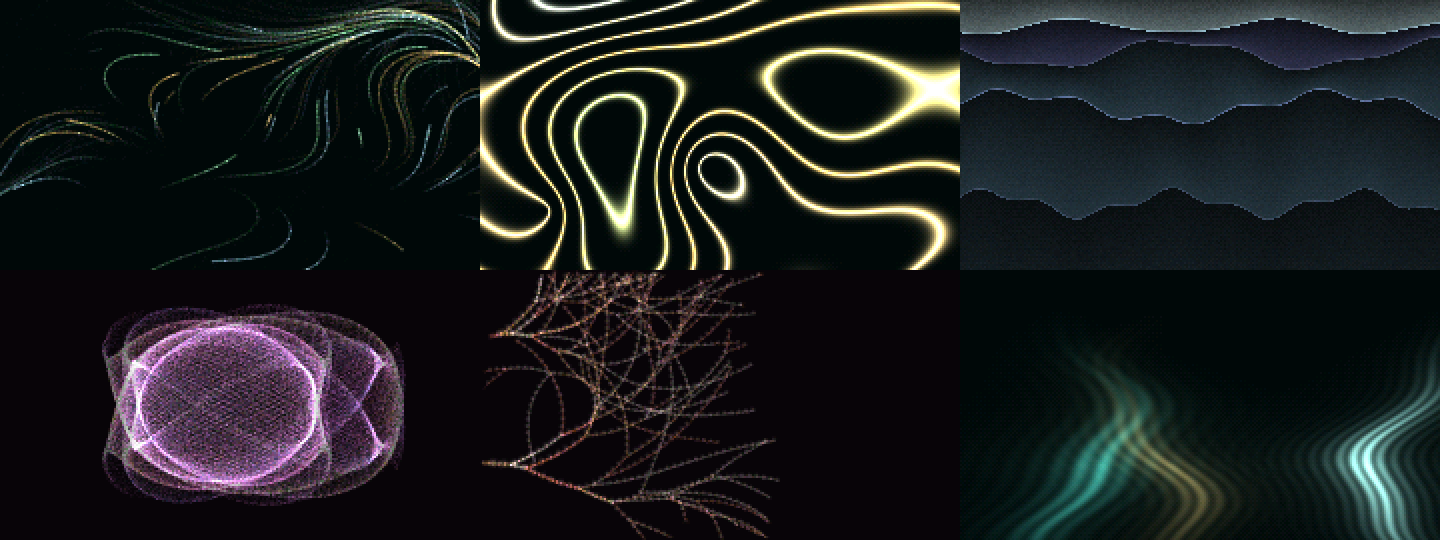
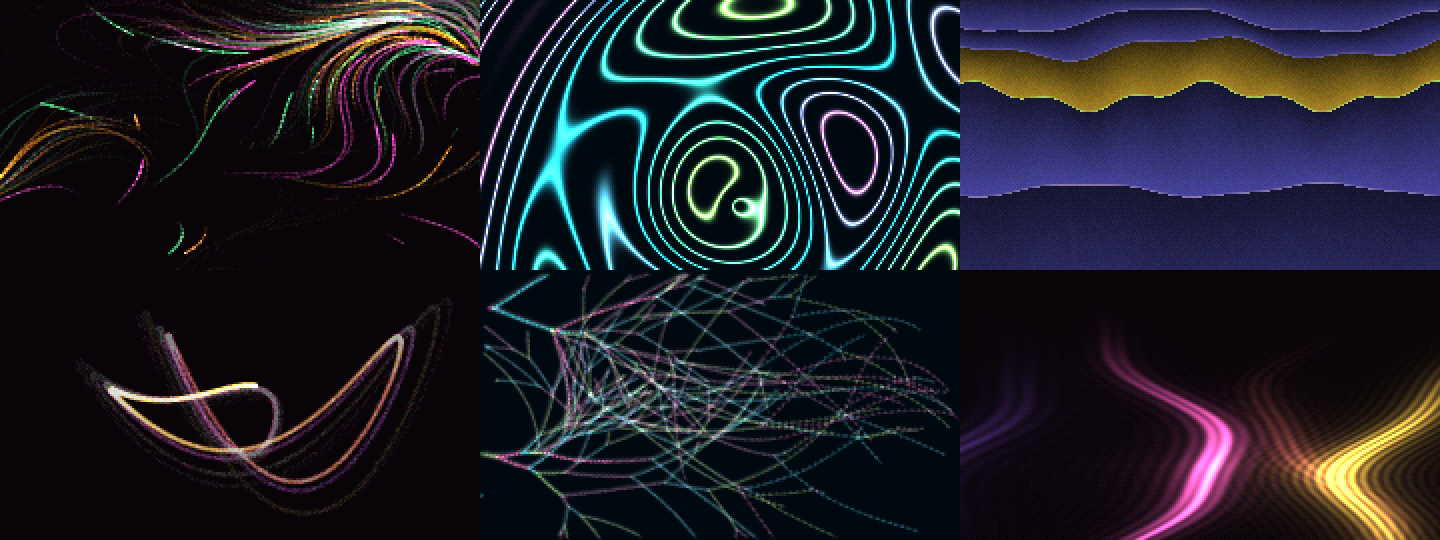
Slow the interference field, keep the pendulum drawing, repaint the palettes
The interference field moved fast enough to read as agitated rather than
alive; its source drift and wave phases now run at about a third of that.

The pendulum filled its frame within a second or two and then had nothing
left to show, because the pen was closing its whole loop several times a
second. It now advances about a tenth of a unit of pen time a second, so the
figure is always still being drawn, its envelope settles to a floor instead
of collapsing to a point, and a different figure begins every twenty seconds
or so. The stroke carries a colour gradient along its length and a second
pass across it for body.

The palettes were built from muted neighbours on the colour wheel and read as
dull and adult. These six are poster colours, far enough apart that a blend
between any two stays a colour instead of turning to grey.

diff --git a/src/Light.h b/src/Light.h
@@ -57,7 +57,7 @@ class Painting {
   std::array<Layer, 14> layers{};
   unsigned layerCount = 0;
   float settleAt = 0;
-  float penT = 0, penDecay = 0, penAmplitude = 1;
+  float penT = 0, penDecay = 0, penEnvelope = 1, figureAt = 0;
   std::array<float, 4> penFreq{}, penPhase{}, penSize{};
   std::array<Node, 168> nodes{};
   unsigned nodeCount = 0, liveNodes = 0;
@@ -196,9 +196,9 @@ class Painting {
     d.tint = index % 3;
   }
   void renderCurrent(float dt) {
-    settle(238);
+    settle(241);
     float speed = (26 + evolving[3] * 46) * (0.72f + breath * 0.7f);
-    unsigned active = 40 + unsigned(evolving[4] * float(drops.size() - 40));
+    unsigned active = 60 + unsigned(evolving[4] * float(drops.size() - 60));
     for (unsigned i = 0; i < active; ++i) {
       Drop& d = drops[i];
       d.life -= dt / d.span;
@@ -211,7 +211,7 @@ class Painting {
       // Fade in and out at the ends of a life so no stroke starts or stops
       // abruptly; the field should look like it has no edges in time.
       float ends = std::min(1.0f, std::min((1 - d.life) * 7.0f, d.life * 3.2f));
-      float a = ends * (0.34f + breath * 0.52f);
+      float a = ends * (0.62f + breath * 0.70f);
       stroke(d.px, d.py, d.x, d.y, ink[d.tint], a);
       if (d.life > 0.82f) splat(d.x, d.y, glow, a * 0.7f);
     }
@@ -219,10 +219,10 @@ class Painting {
 
   void renderInterference() {
     float t = phase;
-    float ax = 120 + fcos(t * 0.037f) * (34 + evolving[0] * 62);
-    float ay = 67 + fsin(t * 0.029f) * (18 + evolving[1] * 34);
-    float bx = 120 - fcos(t * 0.023f + 0.31f) * (28 + evolving[2] * 70);
-    float by = 67 - fsin(t * 0.041f + 0.17f) * (16 + evolving[3] * 38);
+    float ax = 120 + fcos(t * 0.015f) * (34 + evolving[0] * 62);
+    float ay = 67 + fsin(t * 0.012f) * (18 + evolving[1] * 34);
+    float bx = 120 - fcos(t * 0.009f + 0.31f) * (28 + evolving[2] * 70);
+    float by = 67 - fsin(t * 0.017f + 0.17f) * (16 + evolving[3] * 38);
     float ka = 0.0055f + evolving[4] * 0.0075f;
     float kb = 0.0042f + evolving[5] * 0.0085f;
     float tilt = evolving[6];
@@ -239,9 +239,9 @@ class Painting {
         float fx = float(x) + 0.5f;
         float dax = fx - ax, dbx = fx - bx;
         float da = std::sqrt(dax * dax + day * day), db = std::sqrt(dbx * dbx + dby * dby);
-        float v = fsin(da * ka - t * 0.21f) * 0.4f
-                + fsin(db * kb + t * 0.16f) * 0.36f
-                + fsin(fx * px + fy * py + t * 0.09f) * 0.24f;
+        float v = fsin(da * ka - t * 0.062f) * 0.4f
+                + fsin(db * kb + t * 0.048f) * 0.36f
+                + fsin(fx * px + fy * py + t * 0.028f) * 0.24f;
         float u = v * 0.5f + 0.5f;
         // Contour lines: the triangle wave crosses zero at each band edge and
         // the cube turns the crossing into a thin, soft line.
@@ -309,8 +309,8 @@ class Painting {
           float local = (float(y) - previous) / thickness;
           // Each band is darkest where it was buried and lightest where it
           // meets the next; the grain keeps the fill from looking printed.
-          float shade = 0.14f + 0.34f * local + 0.07f * grain(int(x), y);
-          shade *= 0.45f + 0.55f * l.tone;
+          float shade = 0.22f + 0.50f * local + 0.07f * grain(int(x), y);
+          shade *= 0.60f + 0.40f * l.tone;
           float d = dither(int(x), y);
           int r = int(body.r * shade * (31.0f / 255.0f) + d);
           int g = int(body.g * shade * (63.0f / 255.0f) + d);
@@ -349,45 +349,64 @@ class Painting {
     float sum01 = penSize[0] + penSize[1], sum23 = penSize[2] + penSize[3];
     penSize[0] /= sum01; penSize[1] /= sum01; penSize[2] /= sum23; penSize[3] /= sum23;
     penT = 0;
-    penAmplitude = 1;
-    penDecay = range(0.006f, 0.017f);
+    penEnvelope = 1;
+    // Per unit of pen time, not per second: the pen advances about a tenth of
+    // a unit a second, so this is a figure that has visibly drawn itself
+    // tighter by the time it is replaced.
+    penDecay = range(0.12f, 0.34f);
+    figureAt = range(17.0f, 27.0f);
   }
   void renderHarmonograph(float dt) {
-    settle(253);
-    if (penAmplitude < 0.06f) {
-      // The figure has come to rest. Hold it, let the decay take it down,
-      // then start a different one.
-      growthHold += dt;
-      if (growthHold > 4.5f) { growthHold = 0; newFigure(); }
-      splat(120, 67, glow, 0.05f + breath * 0.12f);
-      return;
-    }
-    float span = dt * (2.2f + parameters[1] * 1.8f);
-    unsigned steps = 70 + unsigned(evolving[0] * 90);
+    // The pen is deliberately slow. Run it at the speed the figure is
+    // traversed and it closes its whole loop several times a second, which
+    // fills the frame in a moment and then has nothing left to show. At this
+    // speed it stays a line that is still drawing itself, and the decay
+    // clears the oldest part of the stroke as the newest arrives.
+    settle(249);
+    figureAt -= dt;
+    if (figureAt <= 0) newFigure();
+    float span = dt * (0.10f + parameters[1] * 0.07f) * (1.0f + breath * 0.3f);
+    unsigned steps = 18 + unsigned(evolving[0] * 22);
     float step = span / float(steps);
     float rx = 74 + evolving[1] * 38, ry = 42 + evolving[2] * 20;
     float decayPerStep = std::exp(-penDecay * step);
-    float lx = 0, ly = 0, amp = penAmplitude;
+    float lx = 0, ly = 0, env = penEnvelope;
     for (unsigned i = 0; i <= steps; ++i) {
       float t = penT + step * float(i);
-      if (i) amp *= decayPerStep;
+      if (i) env *= decayPerStep;
+      // The envelope bottoms out rather than collapsing to a point, so a long
+      // figure ends up tighter than it started but still worth watching.
+      float amp = 0.34f + 0.66f * env;
       float x = 120 + rx * amp * (penSize[0] * fsin(penFreq[0] * t + penPhase[0])
                                 + penSize[1] * fsin(penFreq[1] * t + penPhase[1]));
       float y = 67 + ry * amp * (penSize[2] * fsin(penFreq[2] * t + penPhase[2])
                                + penSize[3] * fsin(penFreq[3] * t + penPhase[3]));
       if (i == 0) { lx = x; ly = y; continue; }
-      float hue = t * 0.035f;
+      // Colour travels along the stroke, so the trail reads as a gradient
+      // from the head back into what has already been drawn.
+      float hue = t * 0.85f;
       float band = hue - std::floor(hue);
       unsigned a = unsigned(band * 3.0f) % 3, b = (a + 1) % 3;
       float blend = band * 3.0f - float(unsigned(band * 3.0f));
       Color c = {ink[a].r + (ink[b].r - ink[a].r) * blend,
                  ink[a].g + (ink[b].g - ink[a].g) * blend,
                  ink[a].b + (ink[b].b - ink[a].b) * blend};
-      stroke(lx, ly, x, y, c, (0.10f + breath * 0.20f) * amp);
+      float weight = 0.46f + breath * 0.44f;
+      stroke(lx, ly, x, y, c, weight);
+      // A second pass across the stroke gives the ribbon some body; a single
+      // hairline at this size disappears into the ground.
+      float ox = y - ly, oy = lx - x;
+      float length = std::sqrt(ox * ox + oy * oy);
+      if (length > 0.001f) {
+        ox = ox / length * 0.8f; oy = oy / length * 0.8f;
+        stroke(lx + ox, ly + oy, x + ox, y + oy, c, weight * 0.45f);
+        stroke(lx - ox, ly - oy, x - ox, y - oy, c, weight * 0.45f);
+      }
       lx = x; ly = y;
     }
+    splat(lx, ly, glow, 0.5f + breath * 0.5f);
     penT += span;
-    penAmplitude *= std::exp(-penDecay * span);
+    penEnvelope = env;
   }
 
   void seedGrowth() {
@@ -500,16 +519,16 @@ class Painting {
 
   void renderVeil() {
     float t = phase;
-    unsigned curtains = 3;
-    float centre[3], weightScale[3], hueMix[3];
+    constexpr unsigned curtains = 4;
+    float centre[curtains], weightScale[curtains], hueMix[curtains];
     for (unsigned k = 0; k < curtains; ++k) {
       float fk = float(k);
-      centre[k] = (fk + 0.5f) * (float(width) / float(curtains)) + (evolving[k] - 0.5f) * 84;
-      weightScale[k] = 7 + evolving[k + 3] * 15;
-      hueMix[k] = fk / 2.0f;
+      centre[k] = (fk + 0.5f) * (float(width) / float(curtains)) + (evolving[k] - 0.5f) * 76;
+      weightScale[k] = 9 + evolving[(k + 3) % 8] * 17;
+      hueMix[k] = fk / float(curtains - 1);
     }
     float shimmerRate = 0.05f + parameters[2] * 0.09f;
-    float lift = 1.5f + breath * 1.9f;
+    float lift = 3.2f + breath * 2.4f;
     for (unsigned y = 0; y < height; ++y) {
       float fy = float(y);
       uint16_t ground = rowGround[y];
@@ -519,7 +538,7 @@ class Painting {
       float foot = 1 - std::abs(fy / float(height) - 0.72f) * 1.55f;
       foot = std::max(0.0f, foot);
       float vertical = foot * foot * (0.35f + 0.65f * (fy / float(height)));
-      float cx[3], amp[3];
+      float cx[curtains], amp[curtains];
       for (unsigned k = 0; k < curtains; ++k) {
         cx[k] = centre[k] + fsin(fy * 0.0075f + t * (0.021f + 0.008f * float(k)) + float(k) * 0.37f) * (18 + evolving[6] * 34)
                           + fsin(fy * 0.021f - t * 0.033f) * 5.0f;
@@ -569,16 +588,17 @@ class Painting {
     breath = 0;
     for (auto& p : parameters) p = unit();
     pace = 0.75f + parameters[7] * 0.6f;
-    // Luminous inks on a near-black ground, with a fourth near-white for
-    // highlights. Saturation is kept short of the display's limits so the
-    // additive passes have somewhere to go.
+    // Three clear, well separated hues and a white for highlights. The first
+    // set was built from muted neighbours on the wheel and read as dull on
+    // the panel. These are poster colours, far enough apart that a blend
+    // between any two of them stays a colour instead of turning to grey.
     static const Color palettes[6][4] = {
-      {{ 72, 196, 180}, {232, 198, 118}, {150, 214, 206}, {228, 246, 240}},  // spring water
-      {{124, 122, 232}, {234, 128, 172}, {248, 190, 130}, {238, 232, 248}},  // dusk
-      {{132, 200, 142}, {224, 178,  98}, {146, 190, 214}, {236, 244, 224}},  // moss
-      {{238, 118,  92}, {248, 178, 108}, {244, 224, 198}, {252, 238, 222}},  // ember
-      {{140, 200, 236}, {148, 158, 240}, {206, 238, 244}, {236, 248, 252}},  // glacier
-      {{228, 120, 198}, {158, 122, 220}, {246, 198, 168}, {248, 236, 244}},  // orchid
+      {{255,  78,  66}, { 64, 132, 255}, {255, 214,  56}, {255, 255, 250}},  // poster
+      {{255,  72, 160}, { 40, 224, 238}, {176, 245,  84}, {250, 255, 255}},  // playground
+      {{255, 138,  30}, {236,  66, 190}, { 68, 220, 124}, {255, 252, 240}},  // fruit
+      {{  0, 226, 206}, {116, 112, 255}, {255, 202,  58}, {240, 255, 255}},  // sea
+      {{255, 124, 190}, { 92, 192, 255}, {124, 246, 190}, {255, 250, 255}},  // candy
+      {{154,  92, 255}, {255,  76, 122}, {255, 206,  72}, {255, 248, 252}},  // berry
     };
     for (unsigned i = 0; i < 3; ++i) ink[i] = palettes[palette][i];
     glow = palettes[palette][3];
@@ -587,7 +607,7 @@ class Painting {
     // survive five bits of red: it arrived on the display as two or three
     // horizontal bands, which is worse than no gradient at all. Depth is the
     // drawing's job here, not the ground's.
-    Color base = {ink[0].r * 0.016f + 2, ink[0].g * 0.016f + 3, ink[0].b * 0.02f + 6};
+    Color base = {ink[1].r * 0.012f + 3, ink[1].g * 0.012f + 4, ink[1].b * 0.016f + 9};
     uint16_t ground = uint16_t((std::min(int(base.r * (31.0f / 255.0f) + 0.5f), 31) << 11)
                              | (std::min(int(base.g * (63.0f / 255.0f) + 0.5f), 63) << 5)
                              | std::min(int(base.b * (31.0f / 255.0f) + 0.5f), 31));

diff --git a/CHANGELOG.md b/CHANGELOG.md
@@ -5,6 +5,9 @@
 - Replaced the six visual families with a new set drawn as light on a dark ground: current, interference, strata, pendulum, growth and curtains.
 - Added a shared drawing material for them: subpixel additive splats, hash-noise dithering that moves every frame, and a decay that returns the frame to ground without leaving residue.
 - Archived the original six families in `src/LightClassic.h`, unused by the firmware; the retained-behavior test now holds that archive to the historical fixture.
+- Slowed the interference field to about a third of its first speed.
+- Reworked the pendulum: the pen now moves slowly enough to be followed, its envelope bottoms out instead of collapsing, and a new figure starts every twenty seconds or so, so it never settles into a filled shape.
+- Replaced the palettes with six of clear, well separated hues.
 - Not yet seen on hardware. The frame times are host measurements.
 
 ## 0.2.0 — 2026-09-12
